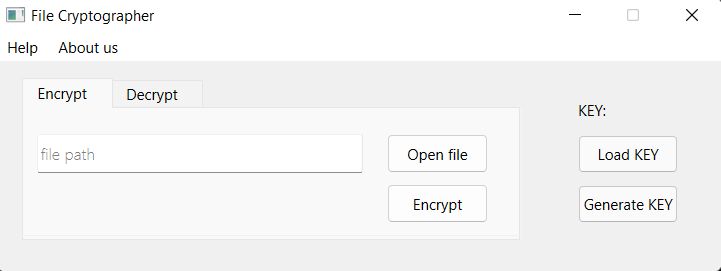
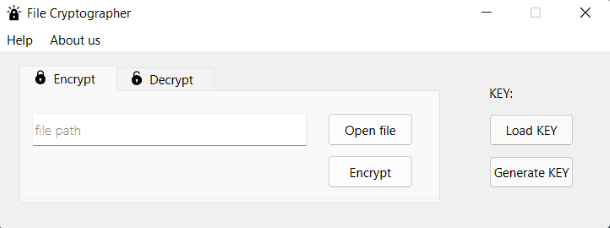
Modified code based on 'PEP 8' & some minor changes

diff --git a/File Cryptographer.py b/File Cryptographer.py
@@ -15,7 +15,7 @@ class AboutDialog(QDialog):
         self.setupUi()
 
     def setupUi(self):
-        self.setWindowIcon(QIcon(r"files/icon.ico"))
+        self.setWindowIcon(QIcon(r"Files/icon.ico"))
         self.setFixedSize(300, 100)
         self.setWindowTitle("About us")
 
@@ -32,20 +32,22 @@ class AboutDialog(QDialog):
 
         btn_github = QPushButton(horizontalLayoutWidget)
         btn_github.setText("GitHub")
-        btn_github.clicked.connect(lambda: webbrowser.open('https://github.com/sina-programer'))
+        btn_github.clicked.connect(lambda: webbrowser.open(
+            'https://github.com/sina-programer'))
 
         btn_instagram = QPushButton(horizontalLayoutWidget)
         btn_instagram.setText("Instagram")
-        btn_instagram.clicked.connect(lambda: webbrowser.open('https://www.instagram.com/sina.programer'))
+        btn_instagram.clicked.connect(lambda: webbrowser.open(
+            'https://www.instagram.com/sina.programer'))
 
         btn_telegram = QPushButton(horizontalLayoutWidget)
         btn_telegram.setText("Telegram")
-        btn_telegram.clicked.connect(lambda: webbrowser.open('https://t.me/sina_programer'))
+        btn_telegram.clicked.connect(
+            lambda: webbrowser.open('https://t.me/sina_programer'))
 
         horizontalLayout.addWidget(btn_github)
         horizontalLayout.addWidget(btn_instagram)
         horizontalLayout.addWidget(btn_telegram)
-
 
 
 class Cryptographer:
@@ -60,7 +62,8 @@ class Cryptographer:
 
     @staticmethod
     def generate_key(key_name):
-        strings = string.ascii_letters + string.digits + string.hexdigits + string.ascii_uppercase + string.punctuation
+        strings = string.ascii_letters + string.digits + \
+            string.hexdigits + string.ascii_uppercase + string.punctuation
         key = ''.join(random.sample(strings, 50)).encode()
 
         with open(key_name, 'wb') as keyFile:
@@ -137,7 +140,8 @@ class Widget(QMainWindow):
         self.file_path_line_encoder_tab = QLineEdit(encoderTab)
         self.file_path_line_encoder_tab.setGeometry(10, 20, 261, 31)
         self.file_path_line_encoder_tab.setFont(lineEdit_font)
-        self.file_path_line_encoder_tab.setFocusPolicy(Qt.FocusPolicy.ClickFocus)
+        self.file_path_line_encoder_tab.setFocusPolicy(
+            Qt.FocusPolicy.ClickFocus)
         self.file_path_line_encoder_tab.setReadOnly(True)
         self.file_path_line_encoder_tab.setPlaceholderText("file path")
 
@@ -157,17 +161,20 @@ class Widget(QMainWindow):
         self.file_path_line_decoder_tab = QLineEdit(decoderTab)
         self.file_path_line_decoder_tab.setGeometry(10, 20, 261, 31)
         self.file_path_line_decoder_tab.setFont(lineEdit_font)
-        self.file_path_line_decoder_tab.setFocusPolicy(Qt.FocusPolicy.ClickFocus)
+        self.file_path_line_decoder_tab.setFocusPolicy(
+            Qt.FocusPolicy.ClickFocus)
         self.file_path_line_decoder_tab.setReadOnly(True)
         self.file_path_line_decoder_tab.setPlaceholderText("file path")
 
         tabWidget.addTab(encoderTab, encoderTab_icon, '')
         tabWidget.setTabText(tabWidget.indexOf(encoderTab), "Encrypt  ")
-        tabWidget.setTabToolTip(tabWidget.indexOf(encoderTab), "You can encrypt\nyour files here")
+        tabWidget.setTabToolTip(tabWidget.indexOf(
+            encoderTab), "You can encrypt\nyour files here")
 
         tabWidget.addTab(decoderTab, decoderTab_icon, '')
         tabWidget.setTabText(tabWidget.indexOf(decoderTab), "Decrypt   ")
-        tabWidget.setTabToolTip(tabWidget.indexOf(decoderTab), "You can decrypt\nyour files here")
+        tabWidget.setTabToolTip(tabWidget.indexOf(
+            decoderTab), "You can decrypt\nyour files here")
 
         self.init_menu()
 
@@ -176,16 +183,20 @@ class Widget(QMainWindow):
             file_path = self.file_path_line_encoder_tab.text()
 
             if file_path:
-                save_path, _ = QFileDialog.getSaveFileName(self, 'Save Encrypt File', '', "Encrypt Files (*.encrypt)")
+                save_path, _ = QFileDialog.getSaveFileName(
+                    self, 'Save Encrypt File', '', "Encrypt Files (*.encrypt)")
 
                 if save_path:
-                    self.cryptographer.cryptography(file_path, save_path, self.key)
+                    self.cryptographer.cryptography(
+                        file_path, save_path, self.key)
 
             else:
-                QMessageBox.critical(self, 'ERROR', '\nPlease open a file for encrypt!\t\n')
+                QMessageBox.critical(
+                    self, 'ERROR', '\nPlease open a file for encrypt!\t\n')
 
         else:
-            QMessageBox.critical(self, 'ERROR', '\nPlease first load a KEY!\t\n')
+            QMessageBox.critical(
+                self, 'ERROR', '\nPlease first load a KEY!\t\n')
 
     def decrypt(self):
         if self.key:
@@ -195,16 +206,20 @@ class Widget(QMainWindow):
                 save_path, _ = QFileDialog.getSaveFileName()
 
                 if save_path:
-                    self.cryptographer.cryptography(file_path, save_path, self.key)
+                    self.cryptographer.cryptography(
+                        file_path, save_path, self.key)
 
             else:
-                QMessageBox.critical(self, 'ERROR', '\nPlease open a file for decrypt!\t\n')
+                QMessageBox.critical(
+                    self, 'ERROR', '\nPlease open a file for decrypt!\t\n')
 
         else:
-            QMessageBox.critical(self, 'ERROR', '\nPlease first load a KEY!\t\n')
+            QMessageBox.critical(
+                self, 'ERROR', '\nPlease first load a KEY!\t\n')
 
     def load_key(self):
-        key_path, _ = QFileDialog.getOpenFileName(self, 'Open Key File', '', "Key Files (*.key)")
+        key_path, _ = QFileDialog.getOpenFileName(
+            self, 'Open Key File', '', "Key Files (*.key)")
 
         if key_path:
             key_name = os.path.basename(key_path)
@@ -212,7 +227,8 @@ class Widget(QMainWindow):
             self.key = self.cryptographer.load_key(key_path)
 
     def generate_key(self):
-        key_path, _ = QFileDialog.getSaveFileName(self, 'Save Key File', '', "Key Files (*.key)")
+        key_path, _ = QFileDialog.getSaveFileName(
+            self, 'Save Key File', '', "Key Files (*.key)")
 
         if key_path:
             self.cryptographer.generate_key(key_path)
@@ -223,13 +239,15 @@ class Widget(QMainWindow):
             self.file_path_line_encoder_tab.setText(file_path)
 
     def open_decode_file(self):
-        file_path, _ = QFileDialog.getOpenFileName(self, 'Open File', '', "Encrypt Files (*.encrypt)")
+        file_path, _ = QFileDialog.getOpenFileName(
+            self, 'Open File', '', "Encrypt Files (*.encrypt)")
         if file_path:
             self.file_path_line_decoder_tab.setText(file_path)
 
     def init_menu(self):
         helpAction = QAction("Help", self)
-        helpAction.triggered.connect(lambda: QMessageBox.information(self, 'Help', HELP_MESSAGE))
+        helpAction.triggered.connect(
+            lambda: QMessageBox.information(self, 'Help', HELP_MESSAGE))
 
         aboutAction = QAction("About us", self)
         aboutAction.triggered.connect(lambda: self.aboutDialog.exec())

diff --git a/Files/UI/design.py b/Files/UI/design.py
@@ -104,14 +104,20 @@ class Ui_MainWindow(object):
         MainWindow.setWindowTitle(_translate("MainWindow", "File Encoder"))
         self.pushButton_7.setText(_translate("MainWindow", "Open file"))
         self.pushButton_8.setText(_translate("MainWindow", "Encode"))
-        self.lineEdit_3.setPlaceholderText(_translate("MainWindow", "file path"))
-        self.tabWidget_2.setTabText(self.tabWidget_2.indexOf(self.encoder_2), _translate("MainWindow", "Encoder"))
-        self.tabWidget_2.setTabToolTip(self.tabWidget_2.indexOf(self.encoder_2), _translate("MainWindow", "<html><head/><body><p>You can encode your file here</p></body></html>"))
+        self.lineEdit_3.setPlaceholderText(
+            _translate("MainWindow", "file path"))
+        self.tabWidget_2.setTabText(self.tabWidget_2.indexOf(
+            self.encoder_2), _translate("MainWindow", "Encoder"))
+        self.tabWidget_2.setTabToolTip(self.tabWidget_2.indexOf(self.encoder_2), _translate(
+            "MainWindow", "<html><head/><body><p>You can encode your file here</p></body></html>"))
         self.pushButton_9.setText(_translate("MainWindow", "Open file"))
         self.pushButton_10.setText(_translate("MainWindow", "Decode"))
-        self.lineEdit_4.setPlaceholderText(_translate("MainWindow", "file path"))
-        self.tabWidget_2.setTabText(self.tabWidget_2.indexOf(self.decoder_2), _translate("MainWindow", "Decoder"))
-        self.tabWidget_2.setTabToolTip(self.tabWidget_2.indexOf(self.decoder_2), _translate("MainWindow", "<html><head/><body><p>You can decode your file here</p></body></html>"))
+        self.lineEdit_4.setPlaceholderText(
+            _translate("MainWindow", "file path"))
+        self.tabWidget_2.setTabText(self.tabWidget_2.indexOf(
+            self.decoder_2), _translate("MainWindow", "Decoder"))
+        self.tabWidget_2.setTabToolTip(self.tabWidget_2.indexOf(self.decoder_2), _translate(
+            "MainWindow", "<html><head/><body><p>You can decode your file here</p></body></html>"))
         self.pushButton_2.setText(_translate("MainWindow", "Load KEY"))
         self.pushButton.setText(_translate("MainWindow", "Generate KEY"))
         self.label.setText(_translate("MainWindow", "Key: "))
